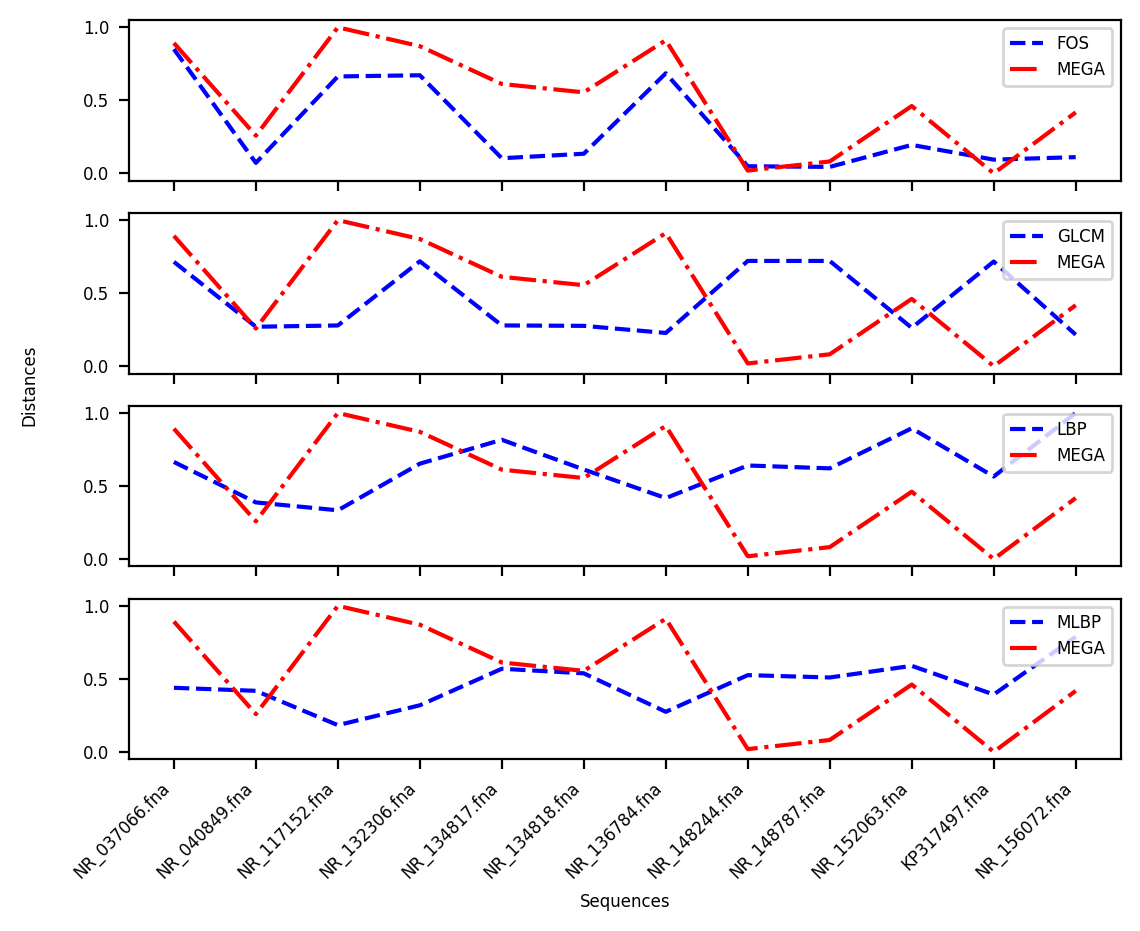
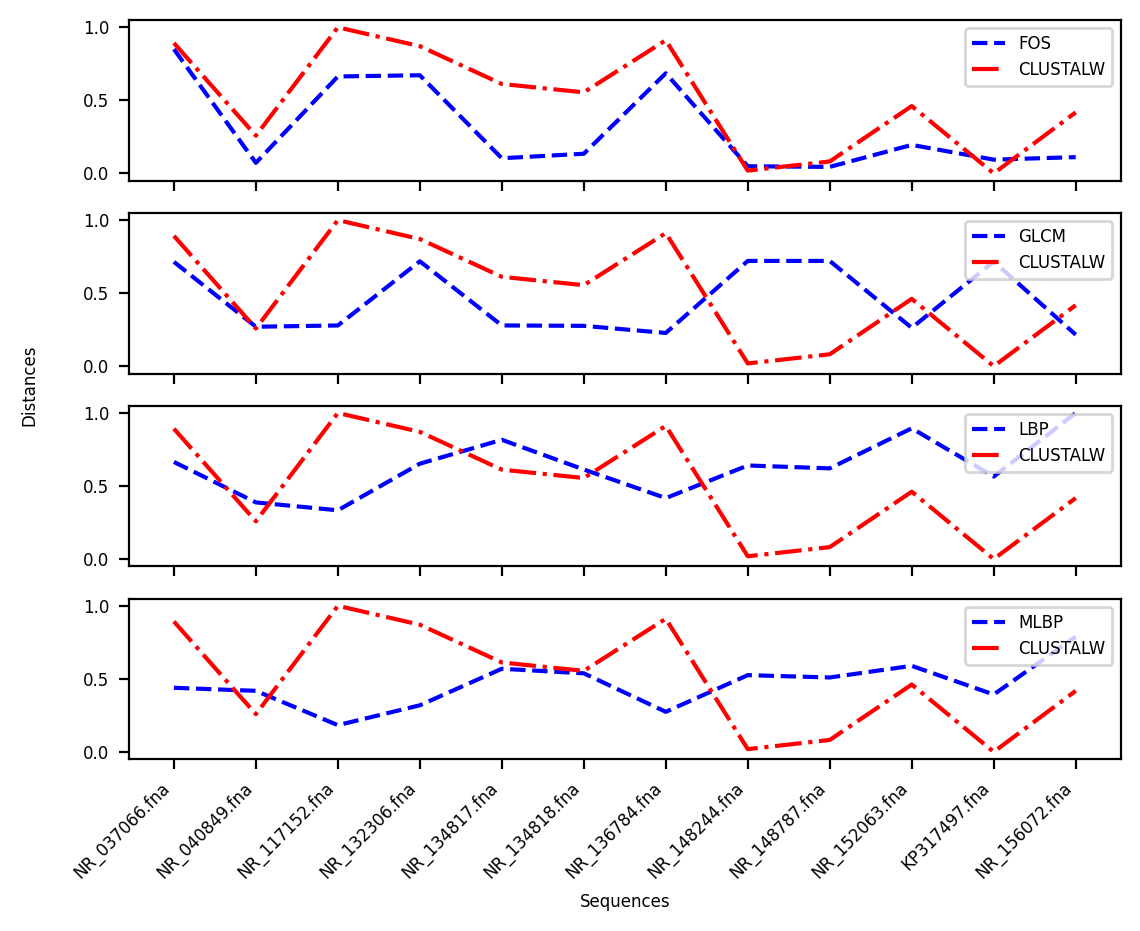
corrigiendo comparasiones

diff --git a/viral/alignment-free/process.py b/viral/alignment-free/process.py
@@ -240,19 +240,19 @@ plt.clf()
 
 fig, axs = plt.subplots(4)
 axs[0].plot(names_temp, distances_proposed, 'b--', label='FOS')
-axs[0].plot(names_temp, distances_mega, 'r-.', label='MEGA')
+axs[0].plot(names_temp, distances_mega, 'r-.', label='CLUSTALW')
 axs[0].legend(loc='upper right', fontsize=6)
 #axs[0].set_title('First order statistics')
 axs[1].plot(names_temp, distances_proposed_glcm, 'b--', label='GLCM')
-axs[1].plot(names_temp, distances_mega, 'r-.', label='MEGA')
+axs[1].plot(names_temp, distances_mega, 'r-.', label='CLUSTALW')
 axs[1].legend(loc='upper right', fontsize=6)
 #axs[1].set_title('First order statistics')
 axs[2].plot(names_temp, distances_proposed_lbp, 'b--', label='LBP')
-axs[2].plot(names_temp, distances_mega, 'r-.', label='MEGA')
+axs[2].plot(names_temp, distances_mega, 'r-.', label='CLUSTALW')
 axs[2].legend(loc='upper right', fontsize=6)
 #axs[1].set_title('First order statistics')
 axs[3].plot(names_temp, distances_proposed_mlbp, 'b--', label='MLBP')
-axs[3].plot(names_temp, distances_mega, 'r-.', label='MEGA')
+axs[3].plot(names_temp, distances_mega, 'r-.', label='CLUSTALW')
 axs[3].legend(loc='upper right', fontsize=6)
 #axs[1].set_title('First order statistics')
 
